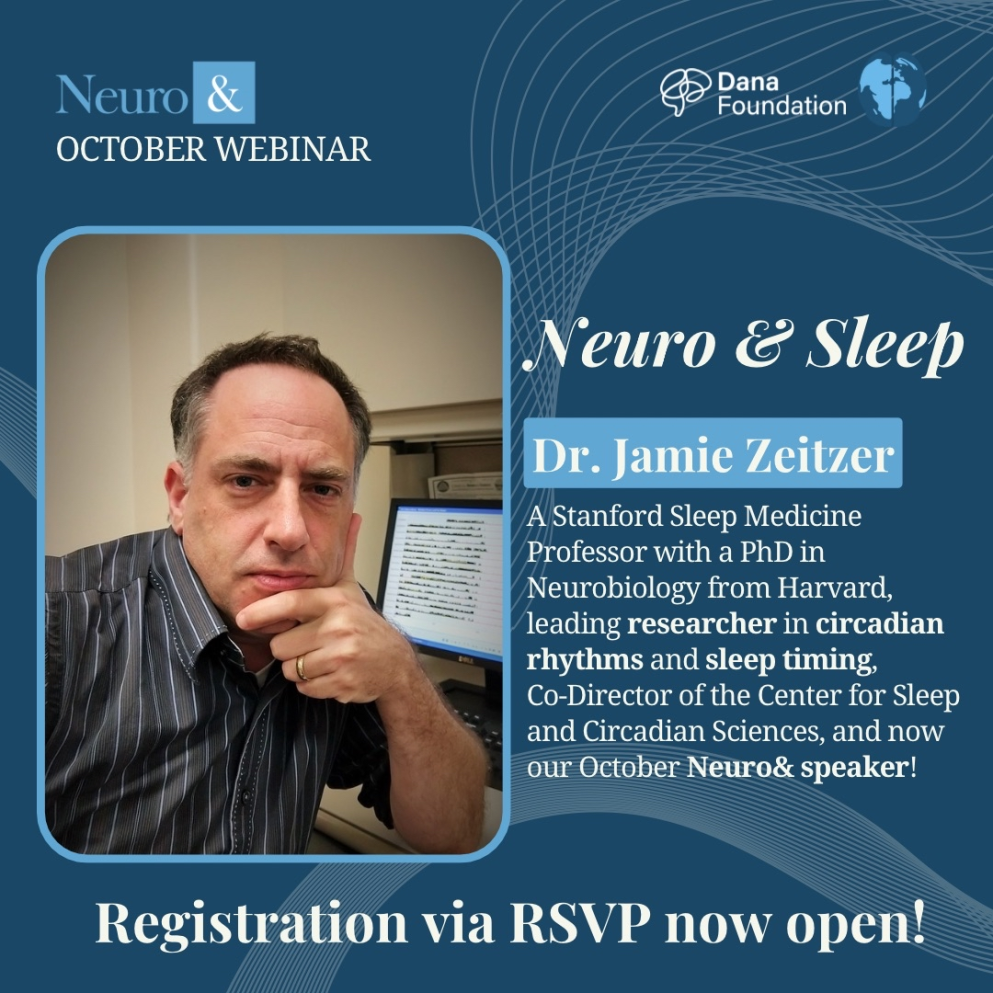
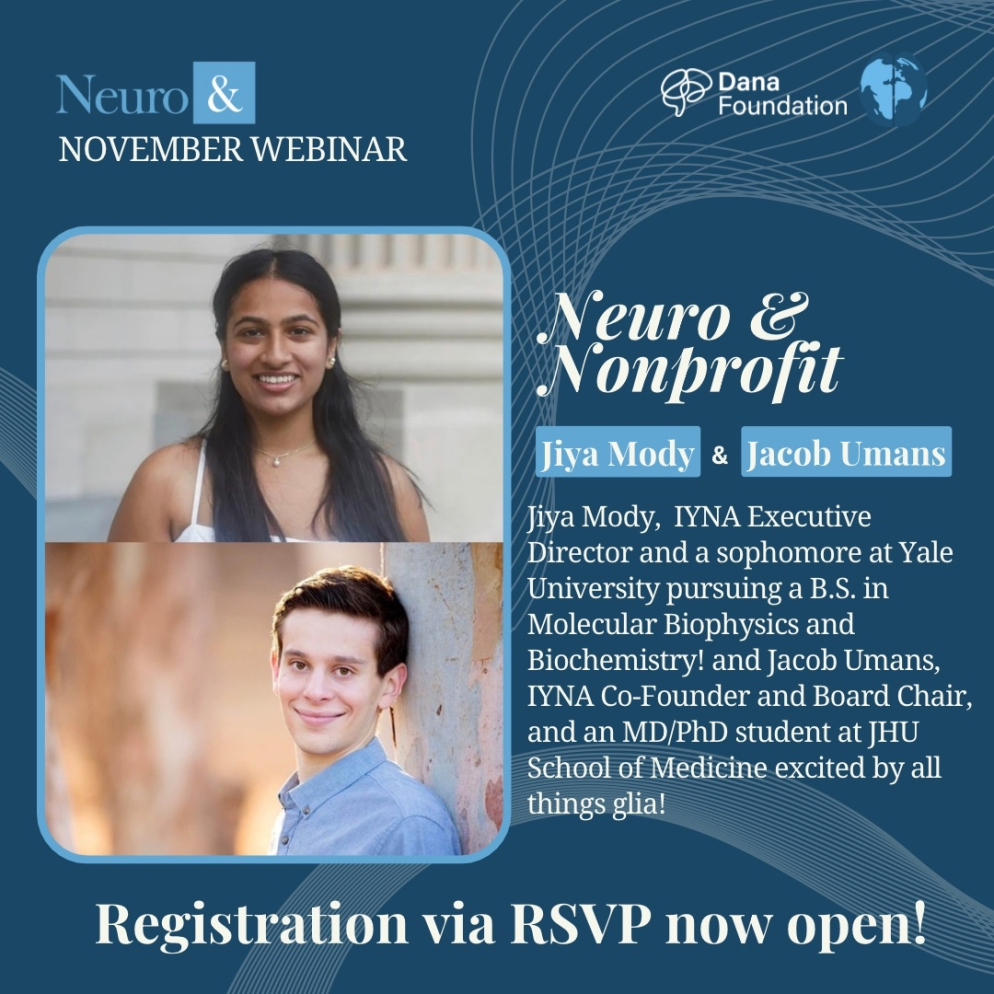
push

diff --git a/src/neuroand.html b/src/neuroand.html
@@ -466,7 +466,7 @@
       </div>
       <div class="neuro-container02">
         <h1 class="neuro-text027">
-          <span>Upcoming Event: Neuro&Sleep</span>
+          <span>Upcoming Event: Neuro&team</span>
           <br />
           <br>
           <br>
@@ -479,16 +479,16 @@
         <span class="neuro-text030">
           <br>
           <span>
-            Neuro&Sleep with Dr. Jamie Zietzer
+            This November, the Neuro& team is thrilled to announce our first webinar featuring not one, but TWO outstanding guest speakers! 
             <br>
             <br>
-            Join us for our October Neuro& webinar, Neuro&Sleep with Dr. Jamie Zeitzer, as we explore the fascinating field of sleep medicine this month! Dr. Zeitzer is a Professor of Psychiatry and Behavioural Sciences and Circadian Physiologist at Stanford. With a PhD in Neurobiology from Harvard University and postdoctoral work at UCLA and Stanford, Dr. Zeitzer offers a breadth of experience and insight. Specializing in Sleep medicine, his research focuses on circadian rhythms, light perception, and sleep timing. Dr. Zeitzer’s talk will be taking place on Sunday October 27th, from 3 to 4:30 PM EST. 
+            Join us in welcoming our very own IYNA Executive Director, Jiya Mody, and IYNA Co-founder and Board Chair, Jacob Umans, for Neuro&Nonprofit! Jiya is a sophomore at Yale University, where she is pursuing a B.S. in Molecular Biophysics and Biochemistry. In her free time, you’ll also find her doing Bhangra. Jacob is a third-year MD/PhD student at the Johns Hopkins University School of Medicine with a deep passion for all things glial.Together, Jiya and Jacob will offer insight and career advice from their diverse academic journeys, spanning high school, college, and graduate school. 
             <br>
             <br>
-            Learn more about Dr. Zeitzer’s research and lab here: https://sleep.sites.stanford.edu/ 
+            Join us on Saturday, November 30th, from 12:00 to 1:30 PM EST for a dynamic discussion on the intersection of science, education, and nonprofit work!
           </span>
         </span>
-        <a href="https://forms.gle/jixkFdvNA2R7hQPP6"
+        <a href="https://forms.gle/gPqVBSc2Xqe32bDF6"
         target="_blank"
         rel="noreferrer noopener"
         class="neuro-link button"
